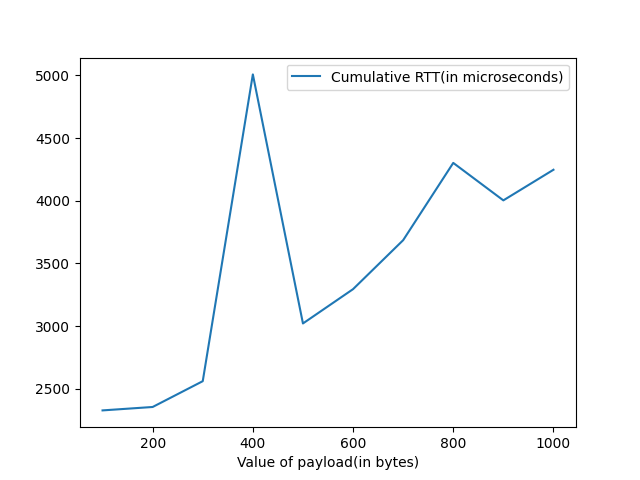
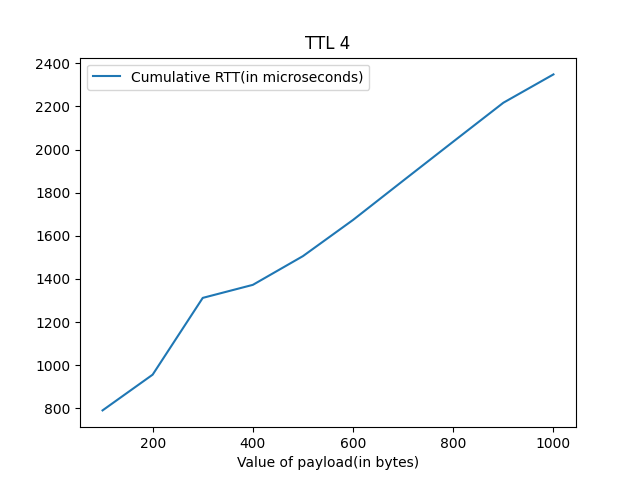
Assignment04

diff --git a/Assignment04/Question02/clientPacketGen.c b/Assignment04/Question02/clientPacketGen.c
@@ -5,7 +5,7 @@
 #include <arpa/inet.h>  // for inet_addr(),htons,...
 #include <unistd.h>     // for close(),..
 #include <sys/time.h>   // For gettimeofday()
-#include <stdbool.h>	// For boolean type
+#include <stdbool.h>    // For boolean type
 
 #define MAX_BUFFER_SIZE 1007
 
@@ -137,7 +137,7 @@ int main(int argc, char *argv[])
         int numPackets = 50;
         printf("<-------------------- Packet size is %d -----------------------------> \n", payLen);
         averageRTT = 0;
-	bool flag = true;
+        bool flag = true;
         for (int i = 0; i < numPackets; i++)
         {
             // Make the packet
@@ -158,10 +158,10 @@ int main(int argc, char *argv[])
             // send the packet to the server until TTL is not zero
             while (packet.TTL != 0) // send the packets until and unless the TTL is 0
             {
-            	 // serialise the packet to be sent to the buffer
-                 serialize_packet(&packet, buffer);
+                // serialise the packet to be sent to the buffer
+                serialize_packet(&packet, buffer);
 
-		int c = sendto(sockfd, buffer, 7 + packet.payloadLength, 0, (struct sockaddr *)&serverAddr, sizeof(serverAddr));
+                int c = sendto(sockfd, buffer, 7 + packet.payloadLength, 0, (struct sockaddr *)&serverAddr, sizeof(serverAddr));
                 if (c == -1)
                 {
                     perror("sendto() failed\n");
@@ -180,13 +180,13 @@ int main(int argc, char *argv[])
                     {
                         // packet is not good
                         printf("%s\n", packet.payloadBytes);
-                    	flag = false;
-			break;
+                        flag = false;
+                        break;
                     }
-		    else
-		    {
-		    	packet.TTL--; // decrement TTL at client as well
-		    }
+                    else
+                    {
+                        packet.TTL--; // decrement TTL at client as well
+                    }
                 }
                 else
                 {
@@ -194,11 +194,11 @@ int main(int argc, char *argv[])
                     exit(EXIT_FAILURE);
                 }
             }
-	    if(!flag)
-	    {
-		printf("Packet sanity check failed so skipping this set of payload\n");
-		break; 
-	    }
+            if (!flag)
+            {
+                printf("Packet sanity check failed so skipping this set of payload\n");
+                break;
+            }
             gettimeofday(&end, NULL);
             cummRTT = calculateRTT(start, end);
             printf("For packet with sequence number %d, cumulative RTT is :%d microseconds\n", packet.sequenceNumber, cummRTT);

diff --git a/Assignment04/Question02/plotGeneral.py b/Assignment04/Question02/plotGeneral.py
@@ -13,12 +13,12 @@ for path, ttl, color in zip(csv_paths, ttl_values, colors):
     df = pd.read_csv(path)
     plt.plot(df['Value of payload(in bytes)'], df['Cumulative RTT(in microseconds)'], label=f'TTL={ttl}', color=color)
 
-plt.title('Cumulative RTT vs. Payload Size for Different TTL Values')
+plt.title('Cumulative RTT vs. Payload Size for Different TTL Values(Increased Traffic)')
 plt.xlabel('Payload Size (bytes)')
 plt.ylabel('Cumulative RTT (microseconds)')
 plt.legend()
 plt.grid(True)
 
-plt.savefig('./TTL_Comparison_SinglePlot.png')
+plt.savefig('./TTL_Comparison_Increased Traffic.png')
 plt.show()
 

diff --git a/Assignment04/Question02/plotter.py b/Assignment04/Question02/plotter.py
@@ -3,11 +3,13 @@ import pandas as pd
 
 paths=['./TTL_2.csv','./TTL_4.csv','./TTL_8.csv','./TTL_16.csv']
 imagePath=['./TTL_2_line.png','./TTL_4_line.png','./TTL_8_line.png','./TTL_16_line.png']
+TTLs=[2,4,8,16]
 c=0
 
 for path in paths:
     df=pd.read_csv(path)
     df.plot(kind='line',x='Value of payload(in bytes)',y='Cumulative RTT(in microseconds)')
+    plt.title(f"TTL {TTLs[c]}")
     plt.savefig(imagePath[c])
     c+=1
     plt.show()
